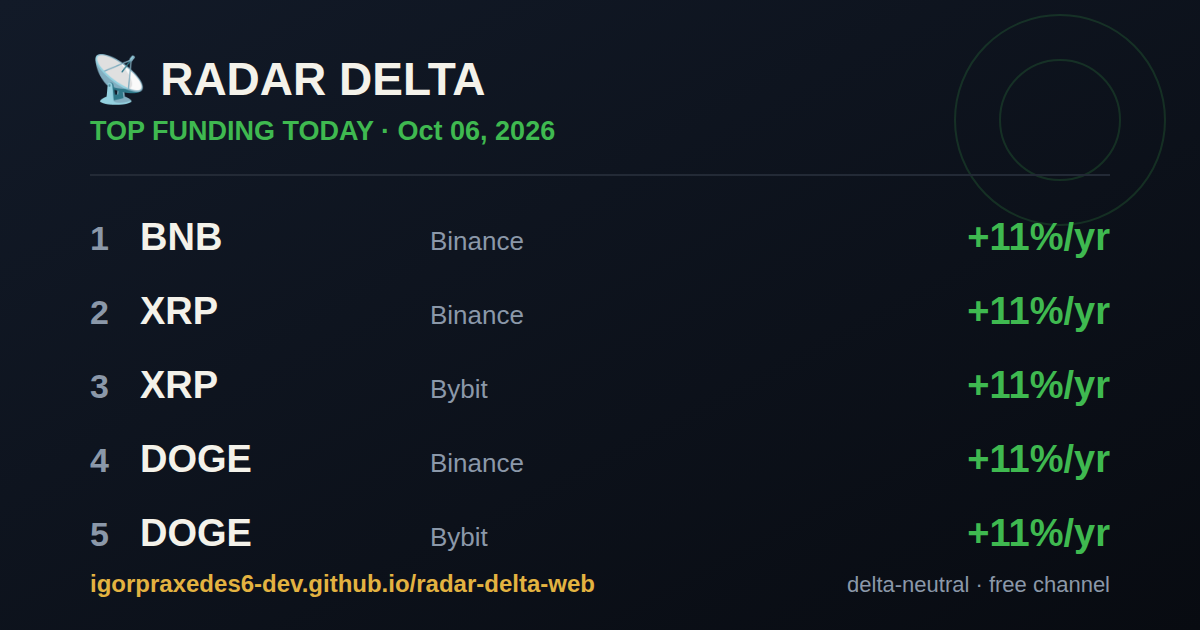
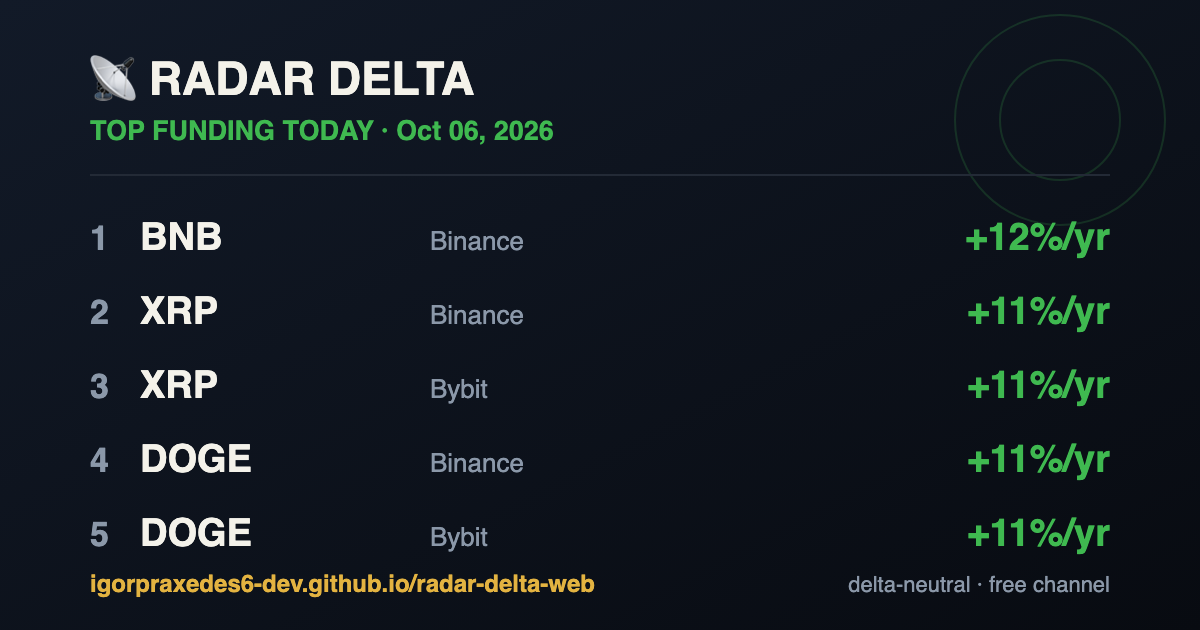
Liga receita: link de afiliado real da Binance (CPA) no radar + 19 paginas de moeda + comparativo

diff --git a/vs-binance-bybit.html b/vs-binance-bybit.html
@@ -38,13 +38,13 @@ footer{margin-top:40px;color:#8b98a9;font-size:12px;border-top:1px solid #232a36
 what a delta-neutral trader hunts. Below, the APR each venue pays right now on the major coins. On this snapshot,
 <b>Binance</b> pays more on 5 and <b>Bybit</b> on 7.</p>
 <table><tr><th class="l">Coin</th><th>Binance APR</th><th>Bybit APR</th><th class="l">Higher</th></tr>
-<tr><td class="l"><b>BTC</b></td><td class="g">+2%</td><td class="g">+8%</td><td class="l win">Bybit</td></tr><tr><td class="l"><b>ETH</b></td><td class="g">+4%</td><td class="g">+8%</td><td class="l win">Bybit</td></tr><tr><td class="l"><b>SOL</b></td><td class="g">+6%</td><td class="g">+9%</td><td class="l win">Bybit</td></tr><tr><td class="l"><b>XRP</b></td><td class="g">+11%</td><td class="g">+11%</td><td class="l win"></td></tr><tr><td class="l"><b>BNB</b></td><td class="g">+11%</td><td class="g">+11%</td><td class="l win">Binance</td></tr><tr><td class="l"><b>DOGE</b></td><td class="g">+11%</td><td class="g">+11%</td><td class="l win"></td></tr><tr><td class="l"><b>ADA</b></td><td class="g">+11%</td><td class="g">+11%</td><td class="l win"></td></tr><tr><td class="l"><b>AVAX</b></td><td class="g">+11%</td><td class="g">+11%</td><td class="l win"></td></tr><tr><td class="l"><b>LINK</b></td><td class="g">+11%</td><td class="g">+1%</td><td class="l win">Binance</td></tr><tr><td class="l"><b>DOT</b></td><td class="g">+11%</td><td class="g">+11%</td><td class="l win"></td></tr><tr><td class="l"><b>LTC</b></td><td class="g">+11%</td><td class="g">+7%</td><td class="l win">Binance</td></tr><tr><td class="l"><b>TRX</b></td><td class="r">-31%</td><td class="r">-29%</td><td class="l win">Bybit</td></tr><tr><td class="l"><b>NEAR</b></td><td class="g">+11%</td><td class="g">+11%</td><td class="l win"></td></tr><tr><td class="l"><b>APT</b></td><td class="g">+11%</td><td class="g">+2%</td><td class="l win">Binance</td></tr><tr><td class="l"><b>ARB</b></td><td class="r">-2%</td><td class="g">+6%</td><td class="l win">Bybit</td></tr><tr><td class="l"><b>OP</b></td><td class="g">+6%</td><td class="g">+2%</td><td class="l win">Binance</td></tr><tr><td class="l"><b>SUI</b></td><td class="g">+3%</td><td class="g">+11%</td><td class="l win">Bybit</td></tr><tr><td class="l"><b>INJ</b></td><td class="g">+11%</td><td class="g">+11%</td><td class="l win"></td></tr><tr><td class="l"><b>TIA</b></td><td class="g">+4%</td><td class="g">+5%</td><td class="l win">Bybit</td></tr></table>
+<tr><td class="l"><b>BTC</b></td><td class="g">+2%</td><td class="g">+7%</td><td class="l win">Bybit</td></tr><tr><td class="l"><b>ETH</b></td><td class="g">+5%</td><td class="g">+8%</td><td class="l win">Bybit</td></tr><tr><td class="l"><b>SOL</b></td><td class="g">+7%</td><td class="g">+9%</td><td class="l win">Bybit</td></tr><tr><td class="l"><b>XRP</b></td><td class="g">+11%</td><td class="g">+11%</td><td class="l win"></td></tr><tr><td class="l"><b>BNB</b></td><td class="g">+12%</td><td class="g">+11%</td><td class="l win">Binance</td></tr><tr><td class="l"><b>DOGE</b></td><td class="g">+11%</td><td class="g">+11%</td><td class="l win"></td></tr><tr><td class="l"><b>ADA</b></td><td class="g">+11%</td><td class="g">+11%</td><td class="l win"></td></tr><tr><td class="l"><b>AVAX</b></td><td class="g">+11%</td><td class="g">+11%</td><td class="l win"></td></tr><tr><td class="l"><b>LINK</b></td><td class="g">+11%</td><td class="g">+1%</td><td class="l win">Binance</td></tr><tr><td class="l"><b>DOT</b></td><td class="g">+11%</td><td class="g">+11%</td><td class="l win"></td></tr><tr><td class="l"><b>LTC</b></td><td class="g">+11%</td><td class="g">+7%</td><td class="l win">Binance</td></tr><tr><td class="l"><b>TRX</b></td><td class="r">-31%</td><td class="r">-29%</td><td class="l win">Bybit</td></tr><tr><td class="l"><b>NEAR</b></td><td class="g">+11%</td><td class="g">+11%</td><td class="l win"></td></tr><tr><td class="l"><b>APT</b></td><td class="g">+11%</td><td class="g">+1%</td><td class="l win">Binance</td></tr><tr><td class="l"><b>ARB</b></td><td class="r">-3%</td><td class="g">+6%</td><td class="l win">Bybit</td></tr><tr><td class="l"><b>OP</b></td><td class="g">+7%</td><td class="g">+3%</td><td class="l win">Binance</td></tr><tr><td class="l"><b>SUI</b></td><td class="g">+3%</td><td class="g">+11%</td><td class="l win">Bybit</td></tr><tr><td class="l"><b>INJ</b></td><td class="g">+11%</td><td class="g">+11%</td><td class="l win"></td></tr><tr><td class="l"><b>TIA</b></td><td class="g">+5%</td><td class="g">+5%</td><td class="l win">Bybit</td></tr></table>
 <p><b>The cross-exchange play:</b> you can even go long the funding on the cheaper venue and short it on the richer
 one. The live radar has a dedicated Cross-Exchange tab for exactly this.</p>
 <a class="cta" href="https://igorpraxedes6-dev.github.io/radar-delta-web/">Open the live radar →</a>
 <a class="cta alt" href="https://t.me/radardeltabr">Daily funding alerts (free)</a>
 <h2>Open accounts</h2>
-<a class="cta bnc" href="https://www.binance.com/activity/referral" rel="sponsored nofollow">Binance</a>
+<a class="cta bnc" href="https://www.binance.com/activity/referral-entry/CPA?ref=CPA_00DDWW0Y3L" rel="sponsored nofollow">Binance</a>
 <a class="cta byb" href="https://www.bybit.com/invite" rel="sponsored nofollow">Bybit</a>
 <p class="muted">Partner links. Perps carry risk.</p>
 <div class="disc">Data, not financial advice. Rates change every few hours — check the live radar.</div>

diff --git a/coin/NEAR.html b/coin/NEAR.html
@@ -36,13 +36,13 @@ footer{margin-top:40px;color:#8b98a9;font-size:12px;border-top:1px solid #232a36
 <div class="muted">snapshot Oct 06, 2026 · updates daily · <a href="https://igorpraxedes6-dev.github.io/radar-delta-web/">see it live</a></div>
 <p>On the snapshot below, <b>Binance</b> pays the higher NEAR funding right now. Funding is what longs and shorts pay each other on the perpetual — when it is positive, longs pay shorts, so a delta-neutral trader who is short the perp (and long spot) collects it.</p>
 <table><tr><th class="l">Exchange</th><th>Funding / interval</th><th>APR / year</th><th>24h vol</th></tr>
-<tr><td class="l"><span class="tag">Binance</span></td><td class="g">0.0100%</td><td class="g">+11%</td><td>$652M</td></tr><tr><td class="l"><span class="tag">Bybit</span></td><td class="g">0.0100%</td><td class="g">+11%</td><td>$234M</td></tr></table>
+<tr><td class="l"><span class="tag">Binance</span></td><td class="g">0.0100%</td><td class="g">+11%</td><td>$655M</td></tr><tr><td class="l"><span class="tag">Bybit</span></td><td class="g">0.0100%</td><td class="g">+11%</td><td>$234M</td></tr></table>
 <p><b>How to capture it (delta-neutral):</b> buy NEAR on spot and short the same size on the NEAR perpetual.
 Price moves cancel out between the two legs; you keep the funding. High funding decays fast, so check the live radar before acting.</p>
 <a class="cta" href="https://igorpraxedes6-dev.github.io/radar-delta-web/">Open the live NEAR radar →</a>
 <a class="cta alt" href="https://t.me/radardeltabr">Get daily alerts (free)</a>
 <h2>Trade NEAR funding</h2>
-<a class="cta bnc" href="https://www.binance.com/activity/referral" rel="sponsored nofollow">Open Binance account</a>
+<a class="cta bnc" href="https://www.binance.com/activity/referral-entry/CPA?ref=CPA_00DDWW0Y3L" rel="sponsored nofollow">Open Binance account</a>
 <a class="cta byb" href="https://www.bybit.com/invite" rel="sponsored nofollow">Open Bybit account</a>
 <p class="muted">Partner links. Operating perps carries risk.</p>
 <div class="disc">Data, not financial advice. NEAR funding changes every few hours.</div>

diff --git a/coin/DOGE.html b/coin/DOGE.html
@@ -36,13 +36,13 @@ footer{margin-top:40px;color:#8b98a9;font-size:12px;border-top:1px solid #232a36
 <div class="muted">snapshot Oct 06, 2026 · updates daily · <a href="https://igorpraxedes6-dev.github.io/radar-delta-web/">see it live</a></div>
 <p>On the snapshot below, <b>Binance</b> pays the higher DOGE funding right now. Funding is what longs and shorts pay each other on the perpetual — when it is positive, longs pay shorts, so a delta-neutral trader who is short the perp (and long spot) collects it.</p>
 <table><tr><th class="l">Exchange</th><th>Funding / interval</th><th>APR / year</th><th>24h vol</th></tr>
-<tr><td class="l"><span class="tag">Binance</span></td><td class="g">0.0100%</td><td class="g">+11%</td><td>$367M</td></tr><tr><td class="l"><span class="tag">Bybit</span></td><td class="g">0.0100%</td><td class="g">+11%</td><td>$86M</td></tr></table>
+<tr><td class="l"><span class="tag">Binance</span></td><td class="g">0.0100%</td><td class="g">+11%</td><td>$368M</td></tr><tr><td class="l"><span class="tag">Bybit</span></td><td class="g">0.0100%</td><td class="g">+11%</td><td>$87M</td></tr></table>
 <p><b>How to capture it (delta-neutral):</b> buy DOGE on spot and short the same size on the DOGE perpetual.
 Price moves cancel out between the two legs; you keep the funding. High funding decays fast, so check the live radar before acting.</p>
 <a class="cta" href="https://igorpraxedes6-dev.github.io/radar-delta-web/">Open the live DOGE radar →</a>
 <a class="cta alt" href="https://t.me/radardeltabr">Get daily alerts (free)</a>
 <h2>Trade DOGE funding</h2>
-<a class="cta bnc" href="https://www.binance.com/activity/referral" rel="sponsored nofollow">Open Binance account</a>
+<a class="cta bnc" href="https://www.binance.com/activity/referral-entry/CPA?ref=CPA_00DDWW0Y3L" rel="sponsored nofollow">Open Binance account</a>
 <a class="cta byb" href="https://www.bybit.com/invite" rel="sponsored nofollow">Open Bybit account</a>
 <p class="muted">Partner links. Operating perps carries risk.</p>
 <div class="disc">Data, not financial advice. DOGE funding changes every few hours.</div>

diff --git a/coin/LINK.html b/coin/LINK.html
@@ -36,13 +36,13 @@ footer{margin-top:40px;color:#8b98a9;font-size:12px;border-top:1px solid #232a36
 <div class="muted">snapshot Oct 06, 2026 · updates daily · <a href="https://igorpraxedes6-dev.github.io/radar-delta-web/">see it live</a></div>
 <p>On the snapshot below, <b>Binance</b> pays the higher LINK funding right now. Funding is what longs and shorts pay each other on the perpetual — when it is positive, longs pay shorts, so a delta-neutral trader who is short the perp (and long spot) collects it.</p>
 <table><tr><th class="l">Exchange</th><th>Funding / interval</th><th>APR / year</th><th>24h vol</th></tr>
-<tr><td class="l"><span class="tag">Binance</span></td><td class="g">0.0100%</td><td class="g">+11%</td><td>$135M</td></tr><tr><td class="l"><span class="tag">Bybit</span></td><td class="g">0.0005%</td><td class="g">+1%</td><td>$34M</td></tr></table>
+<tr><td class="l"><span class="tag">Binance</span></td><td class="g">0.0100%</td><td class="g">+11%</td><td>$134M</td></tr><tr><td class="l"><span class="tag">Bybit</span></td><td class="g">0.0007%</td><td class="g">+1%</td><td>$34M</td></tr></table>
 <p><b>How to capture it (delta-neutral):</b> buy LINK on spot and short the same size on the LINK perpetual.
 Price moves cancel out between the two legs; you keep the funding. High funding decays fast, so check the live radar before acting.</p>
 <a class="cta" href="https://igorpraxedes6-dev.github.io/radar-delta-web/">Open the live LINK radar →</a>
 <a class="cta alt" href="https://t.me/radardeltabr">Get daily alerts (free)</a>
 <h2>Trade LINK funding</h2>
-<a class="cta bnc" href="https://www.binance.com/activity/referral" rel="sponsored nofollow">Open Binance account</a>
+<a class="cta bnc" href="https://www.binance.com/activity/referral-entry/CPA?ref=CPA_00DDWW0Y3L" rel="sponsored nofollow">Open Binance account</a>
 <a class="cta byb" href="https://www.bybit.com/invite" rel="sponsored nofollow">Open Bybit account</a>
 <p class="muted">Partner links. Operating perps carries risk.</p>
 <div class="disc">Data, not financial advice. LINK funding changes every few hours.</div>

diff --git a/coin/ADA.html b/coin/ADA.html
@@ -36,13 +36,13 @@ footer{margin-top:40px;color:#8b98a9;font-size:12px;border-top:1px solid #232a36
 <div class="muted">snapshot Oct 06, 2026 · updates daily · <a href="https://igorpraxedes6-dev.github.io/radar-delta-web/">see it live</a></div>
 <p>On the snapshot below, <b>Binance</b> pays the higher ADA funding right now. Funding is what longs and shorts pay each other on the perpetual — when it is positive, longs pay shorts, so a delta-neutral trader who is short the perp (and long spot) collects it.</p>
 <table><tr><th class="l">Exchange</th><th>Funding / interval</th><th>APR / year</th><th>24h vol</th></tr>
-<tr><td class="l"><span class="tag">Binance</span></td><td class="g">0.0100%</td><td class="g">+11%</td><td>$364M</td></tr><tr><td class="l"><span class="tag">Bybit</span></td><td class="g">0.0100%</td><td class="g">+11%</td><td>$133M</td></tr></table>
+<tr><td class="l"><span class="tag">Binance</span></td><td class="g">0.0100%</td><td class="g">+11%</td><td>$361M</td></tr><tr><td class="l"><span class="tag">Bybit</span></td><td class="g">0.0100%</td><td class="g">+11%</td><td>$132M</td></tr></table>
 <p><b>How to capture it (delta-neutral):</b> buy ADA on spot and short the same size on the ADA perpetual.
 Price moves cancel out between the two legs; you keep the funding. High funding decays fast, so check the live radar before acting.</p>
 <a class="cta" href="https://igorpraxedes6-dev.github.io/radar-delta-web/">Open the live ADA radar →</a>
 <a class="cta alt" href="https://t.me/radardeltabr">Get daily alerts (free)</a>
 <h2>Trade ADA funding</h2>
-<a class="cta bnc" href="https://www.binance.com/activity/referral" rel="sponsored nofollow">Open Binance account</a>
+<a class="cta bnc" href="https://www.binance.com/activity/referral-entry/CPA?ref=CPA_00DDWW0Y3L" rel="sponsored nofollow">Open Binance account</a>
 <a class="cta byb" href="https://www.bybit.com/invite" rel="sponsored nofollow">Open Bybit account</a>
 <p class="muted">Partner links. Operating perps carries risk.</p>
 <div class="disc">Data, not financial advice. ADA funding changes every few hours.</div>

diff --git a/coin/XRP.html b/coin/XRP.html
@@ -36,13 +36,13 @@ footer{margin-top:40px;color:#8b98a9;font-size:12px;border-top:1px solid #232a36
 <div class="muted">snapshot Oct 06, 2026 · updates daily · <a href="https://igorpraxedes6-dev.github.io/radar-delta-web/">see it live</a></div>
 <p>On the snapshot below, <b>Binance</b> pays the higher XRP funding right now. Funding is what longs and shorts pay each other on the perpetual — when it is positive, longs pay shorts, so a delta-neutral trader who is short the perp (and long spot) collects it.</p>
 <table><tr><th class="l">Exchange</th><th>Funding / interval</th><th>APR / year</th><th>24h vol</th></tr>
-<tr><td class="l"><span class="tag">Binance</span></td><td class="g">0.0100%</td><td class="g">+11%</td><td>$681M</td></tr><tr><td class="l"><span class="tag">Bybit</span></td><td class="g">0.0100%</td><td class="g">+11%</td><td>$299M</td></tr></table>
+<tr><td class="l"><span class="tag">Binance</span></td><td class="g">0.0100%</td><td class="g">+11%</td><td>$681M</td></tr><tr><td class="l"><span class="tag">Bybit</span></td><td class="g">0.0100%</td><td class="g">+11%</td><td>$296M</td></tr></table>
 <p><b>How to capture it (delta-neutral):</b> buy XRP on spot and short the same size on the XRP perpetual.
 Price moves cancel out between the two legs; you keep the funding. High funding decays fast, so check the live radar before acting.</p>
 <a class="cta" href="https://igorpraxedes6-dev.github.io/radar-delta-web/">Open the live XRP radar →</a>
 <a class="cta alt" href="https://t.me/radardeltabr">Get daily alerts (free)</a>
 <h2>Trade XRP funding</h2>
-<a class="cta bnc" href="https://www.binance.com/activity/referral" rel="sponsored nofollow">Open Binance account</a>
+<a class="cta bnc" href="https://www.binance.com/activity/referral-entry/CPA?ref=CPA_00DDWW0Y3L" rel="sponsored nofollow">Open Binance account</a>
 <a class="cta byb" href="https://www.bybit.com/invite" rel="sponsored nofollow">Open Bybit account</a>
 <p class="muted">Partner links. Operating perps carries risk.</p>
 <div class="disc">Data, not financial advice. XRP funding changes every few hours.</div>

diff --git a/coin/BNB.html b/coin/BNB.html
@@ -36,13 +36,13 @@ footer{margin-top:40px;color:#8b98a9;font-size:12px;border-top:1px solid #232a36
 <div class="muted">snapshot Oct 06, 2026 · updates daily · <a href="https://igorpraxedes6-dev.github.io/radar-delta-web/">see it live</a></div>
 <p>On the snapshot below, <b>Binance</b> pays the higher BNB funding right now. Funding is what longs and shorts pay each other on the perpetual — when it is positive, longs pay shorts, so a delta-neutral trader who is short the perp (and long spot) collects it.</p>
 <table><tr><th class="l">Exchange</th><th>Funding / interval</th><th>APR / year</th><th>24h vol</th></tr>
-<tr><td class="l"><span class="tag">Binance</span></td><td class="g">0.0105%</td><td class="g">+11%</td><td>$287M</td></tr><tr><td class="l"><span class="tag">Bybit</span></td><td class="g">0.0100%</td><td class="g">+11%</td><td>$28M</td></tr></table>
+<tr><td class="l"><span class="tag">Binance</span></td><td class="g">0.0106%</td><td class="g">+12%</td><td>$285M</td></tr><tr><td class="l"><span class="tag">Bybit</span></td><td class="g">0.0100%</td><td class="g">+11%</td><td>$28M</td></tr></table>
 <p><b>How to capture it (delta-neutral):</b> buy BNB on spot and short the same size on the BNB perpetual.
 Price moves cancel out between the two legs; you keep the funding. High funding decays fast, so check the live radar before acting.</p>
 <a class="cta" href="https://igorpraxedes6-dev.github.io/radar-delta-web/">Open the live BNB radar →</a>
 <a class="cta alt" href="https://t.me/radardeltabr">Get daily alerts (free)</a>
 <h2>Trade BNB funding</h2>
-<a class="cta bnc" href="https://www.binance.com/activity/referral" rel="sponsored nofollow">Open Binance account</a>
+<a class="cta bnc" href="https://www.binance.com/activity/referral-entry/CPA?ref=CPA_00DDWW0Y3L" rel="sponsored nofollow">Open Binance account</a>
 <a class="cta byb" href="https://www.bybit.com/invite" rel="sponsored nofollow">Open Bybit account</a>
 <p class="muted">Partner links. Operating perps carries risk.</p>
 <div class="disc">Data, not financial advice. BNB funding changes every few hours.</div>

diff --git a/coin/BTC.html b/coin/BTC.html
@@ -36,13 +36,13 @@ footer{margin-top:40px;color:#8b98a9;font-size:12px;border-top:1px solid #232a36
 <div class="muted">snapshot Oct 06, 2026 · updates daily · <a href="https://igorpraxedes6-dev.github.io/radar-delta-web/">see it live</a></div>
 <p>On the snapshot below, <b>Bybit</b> pays the higher BTC funding right now. Funding is what longs and shorts pay each other on the perpetual — when it is positive, longs pay shorts, so a delta-neutral trader who is short the perp (and long spot) collects it.</p>
 <table><tr><th class="l">Exchange</th><th>Funding / interval</th><th>APR / year</th><th>24h vol</th></tr>
-<tr><td class="l"><span class="tag">Binance</span></td><td class="g">0.0015%</td><td class="g">+2%</td><td>$10.7B</td></tr><tr><td class="l"><span class="tag">Bybit</span></td><td class="g">0.0070%</td><td class="g">+8%</td><td>$4.3B</td></tr></table>
+<tr><td class="l"><span class="tag">Binance</span></td><td class="g">0.0020%</td><td class="g">+2%</td><td>$10.5B</td></tr><tr><td class="l"><span class="tag">Bybit</span></td><td class="g">0.0068%</td><td class="g">+7%</td><td>$4.2B</td></tr></table>
 <p><b>How to capture it (delta-neutral):</b> buy BTC on spot and short the same size on the BTC perpetual.
 Price moves cancel out between the two legs; you keep the funding. High funding decays fast, so check the live radar before acting.</p>
 <a class="cta" href="https://igorpraxedes6-dev.github.io/radar-delta-web/">Open the live BTC radar →</a>
 <a class="cta alt" href="https://t.me/radardeltabr">Get daily alerts (free)</a>
 <h2>Trade BTC funding</h2>
-<a class="cta bnc" href="https://www.binance.com/activity/referral" rel="sponsored nofollow">Open Binance account</a>
+<a class="cta bnc" href="https://www.binance.com/activity/referral-entry/CPA?ref=CPA_00DDWW0Y3L" rel="sponsored nofollow">Open Binance account</a>
 <a class="cta byb" href="https://www.bybit.com/invite" rel="sponsored nofollow">Open Bybit account</a>
 <p class="muted">Partner links. Operating perps carries risk.</p>
 <div class="disc">Data, not financial advice. BTC funding changes every few hours.</div>

diff --git a/coin/TRX.html b/coin/TRX.html
@@ -36,13 +36,13 @@ footer{margin-top:40px;color:#8b98a9;font-size:12px;border-top:1px solid #232a36
 <div class="muted">snapshot Oct 06, 2026 · updates daily · <a href="https://igorpraxedes6-dev.github.io/radar-delta-web/">see it live</a></div>
 <p>On the snapshot below, <b>Bybit</b> pays the higher TRX funding right now. Funding is what longs and shorts pay each other on the perpetual — when it is positive, longs pay shorts, so a delta-neutral trader who is short the perp (and long spot) collects it.</p>
 <table><tr><th class="l">Exchange</th><th>Funding / interval</th><th>APR / year</th><th>24h vol</th></tr>
-<tr><td class="l"><span class="tag">Binance</span></td><td class="r">-0.0286%</td><td class="r">-31%</td><td>$28M</td></tr><tr><td class="l"><span class="tag">Bybit</span></td><td class="r">-0.0268%</td><td class="r">-29%</td><td>$5M</td></tr></table>
+<tr><td class="l"><span class="tag">Binance</span></td><td class="r">-0.0280%</td><td class="r">-31%</td><td>$28M</td></tr><tr><td class="l"><span class="tag">Bybit</span></td><td class="r">-0.0264%</td><td class="r">-29%</td><td>$5M</td></tr></table>
 <p><b>How to capture it (delta-neutral):</b> buy TRX on spot and short the same size on the TRX perpetual.
 Price moves cancel out between the two legs; you keep the funding. High funding decays fast, so check the live radar before acting.</p>
 <a class="cta" href="https://igorpraxedes6-dev.github.io/radar-delta-web/">Open the live TRX radar →</a>
 <a class="cta alt" href="https://t.me/radardeltabr">Get daily alerts (free)</a>
 <h2>Trade TRX funding</h2>
-<a class="cta bnc" href="https://www.binance.com/activity/referral" rel="sponsored nofollow">Open Binance account</a>
+<a class="cta bnc" href="https://www.binance.com/activity/referral-entry/CPA?ref=CPA_00DDWW0Y3L" rel="sponsored nofollow">Open Binance account</a>
 <a class="cta byb" href="https://www.bybit.com/invite" rel="sponsored nofollow">Open Bybit account</a>
 <p class="muted">Partner links. Operating perps carries risk.</p>
 <div class="disc">Data, not financial advice. TRX funding changes every few hours.</div>

diff --git a/coin/APT.html b/coin/APT.html
@@ -36,13 +36,13 @@ footer{margin-top:40px;color:#8b98a9;font-size:12px;border-top:1px solid #232a36
 <div class="muted">snapshot Oct 06, 2026 · updates daily · <a href="https://igorpraxedes6-dev.github.io/radar-delta-web/">see it live</a></div>
 <p>On the snapshot below, <b>Binance</b> pays the higher APT funding right now. Funding is what longs and shorts pay each other on the perpetual — when it is positive, longs pay shorts, so a delta-neutral trader who is short the perp (and long spot) collects it.</p>
 <table><tr><th class="l">Exchange</th><th>Funding / interval</th><th>APR / year</th><th>24h vol</th></tr>
-<tr><td class="l"><span class="tag">Binance</span></td><td class="g">0.0100%</td><td class="g">+11%</td><td>$63M</td></tr><tr><td class="l"><span class="tag">Bybit</span></td><td class="g">0.0021%</td><td class="g">+2%</td><td>$24M</td></tr></table>
+<tr><td class="l"><span class="tag">Binance</span></td><td class="g">0.0100%</td><td class="g">+11%</td><td>$63M</td></tr><tr><td class="l"><span class="tag">Bybit</span></td><td class="g">0.0006%</td><td class="g">+1%</td><td>$24M</td></tr></table>
 <p><b>How to capture it (delta-neutral):</b> buy APT on spot and short the same size on the APT perpetual.
 Price moves cancel out between the two legs; you keep the funding. High funding decays fast, so check the live radar before acting.</p>
 <a class="cta" href="https://igorpraxedes6-dev.github.io/radar-delta-web/">Open the live APT radar →</a>
 <a class="cta alt" href="https://t.me/radardeltabr">Get daily alerts (free)</a>
 <h2>Trade APT funding</h2>
-<a class="cta bnc" href="https://www.binance.com/activity/referral" rel="sponsored nofollow">Open Binance account</a>
+<a class="cta bnc" href="https://www.binance.com/activity/referral-entry/CPA?ref=CPA_00DDWW0Y3L" rel="sponsored nofollow">Open Binance account</a>
 <a class="cta byb" href="https://www.bybit.com/invite" rel="sponsored nofollow">Open Bybit account</a>
 <p class="muted">Partner links. Operating perps carries risk.</p>
 <div class="disc">Data, not financial advice. APT funding changes every few hours.</div>

diff --git a/coin/ETH.html b/coin/ETH.html
@@ -36,13 +36,13 @@ footer{margin-top:40px;color:#8b98a9;font-size:12px;border-top:1px solid #232a36
 <div class="muted">snapshot Oct 06, 2026 · updates daily · <a href="https://igorpraxedes6-dev.github.io/radar-delta-web/">see it live</a></div>
 <p>On the snapshot below, <b>Bybit</b> pays the higher ETH funding right now. Funding is what longs and shorts pay each other on the perpetual — when it is positive, longs pay shorts, so a delta-neutral trader who is short the perp (and long spot) collects it.</p>
 <table><tr><th class="l">Exchange</th><th>Funding / interval</th><th>APR / year</th><th>24h vol</th></tr>
-<tr><td class="l"><span class="tag">Binance</span></td><td class="g">0.0040%</td><td class="g">+4%</td><td>$6.4B</td></tr><tr><td class="l"><span class="tag">Bybit</span></td><td class="g">0.0074%</td><td class="g">+8%</td><td>$2.1B</td></tr></table>
+<tr><td class="l"><span class="tag">Binance</span></td><td class="g">0.0046%</td><td class="g">+5%</td><td>$6.3B</td></tr><tr><td class="l"><span class="tag">Bybit</span></td><td class="g">0.0071%</td><td class="g">+8%</td><td>$2.1B</td></tr></table>
 <p><b>How to capture it (delta-neutral):</b> buy ETH on spot and short the same size on the ETH perpetual.
 Price moves cancel out between the two legs; you keep the funding. High funding decays fast, so check the live radar before acting.</p>
 <a class="cta" href="https://igorpraxedes6-dev.github.io/radar-delta-web/">Open the live ETH radar →</a>
 <a class="cta alt" href="https://t.me/radardeltabr">Get daily alerts (free)</a>
 <h2>Trade ETH funding</h2>
-<a class="cta bnc" href="https://www.binance.com/activity/referral" rel="sponsored nofollow">Open Binance account</a>
+<a class="cta bnc" href="https://www.binance.com/activity/referral-entry/CPA?ref=CPA_00DDWW0Y3L" rel="sponsored nofollow">Open Binance account</a>
 <a class="cta byb" href="https://www.bybit.com/invite" rel="sponsored nofollow">Open Bybit account</a>
 <p class="muted">Partner links. Operating perps carries risk.</p>
 <div class="disc">Data, not financial advice. ETH funding changes every few hours.</div>

diff --git a/coin/LTC.html b/coin/LTC.html
@@ -36,13 +36,13 @@ footer{margin-top:40px;color:#8b98a9;font-size:12px;border-top:1px solid #232a36
 <div class="muted">snapshot Oct 06, 2026 · updates daily · <a href="https://igorpraxedes6-dev.github.io/radar-delta-web/">see it live</a></div>
 <p>On the snapshot below, <b>Binance</b> pays the higher LTC funding right now. Funding is what longs and shorts pay each other on the perpetual — when it is positive, longs pay shorts, so a delta-neutral trader who is short the perp (and long spot) collects it.</p>
 <table><tr><th class="l">Exchange</th><th>Funding / interval</th><th>APR / year</th><th>24h vol</th></tr>
-<tr><td class="l"><span class="tag">Binance</span></td><td class="g">0.0100%</td><td class="g">+11%</td><td>$89M</td></tr><tr><td class="l"><span class="tag">Bybit</span></td><td class="g">0.0066%</td><td class="g">+7%</td><td>$25M</td></tr></table>
+<tr><td class="l"><span class="tag">Binance</span></td><td class="g">0.0100%</td><td class="g">+11%</td><td>$89M</td></tr><tr><td class="l"><span class="tag">Bybit</span></td><td class="g">0.0064%</td><td class="g">+7%</td><td>$25M</td></tr></table>
 <p><b>How to capture it (delta-neutral):</b> buy LTC on spot and short the same size on the LTC perpetual.
 Price moves cancel out between the two legs; you keep the funding. High funding decays fast, so check the live radar before acting.</p>
 <a class="cta" href="https://igorpraxedes6-dev.github.io/radar-delta-web/">Open the live LTC radar →</a>
 <a class="cta alt" href="https://t.me/radardeltabr">Get daily alerts (free)</a>
 <h2>Trade LTC funding</h2>
-<a class="cta bnc" href="https://www.binance.com/activity/referral" rel="sponsored nofollow">Open Binance account</a>
+<a class="cta bnc" href="https://www.binance.com/activity/referral-entry/CPA?ref=CPA_00DDWW0Y3L" rel="sponsored nofollow">Open Binance account</a>
 <a class="cta byb" href="https://www.bybit.com/invite" rel="sponsored nofollow">Open Bybit account</a>
 <p class="muted">Partner links. Operating perps carries risk.</p>
 <div class="disc">Data, not financial advice. LTC funding changes every few hours.</div>
